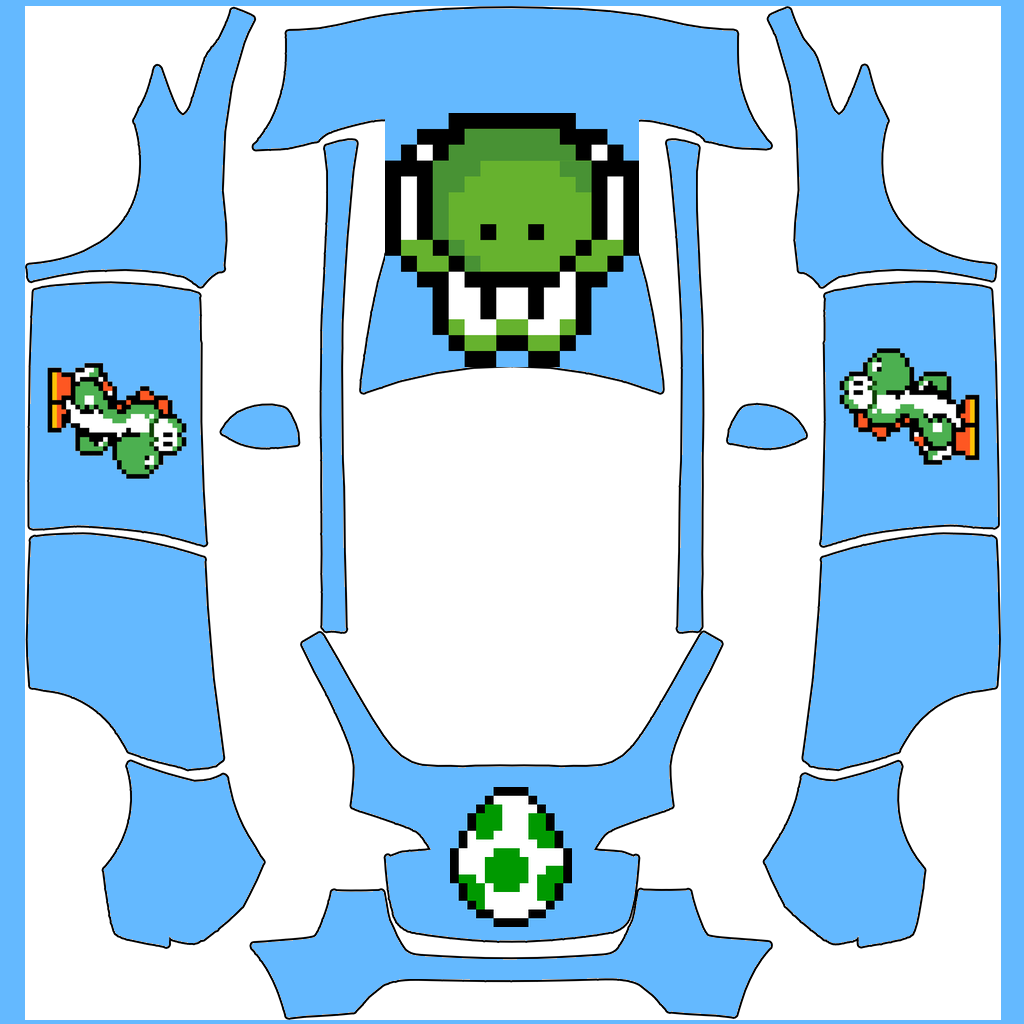
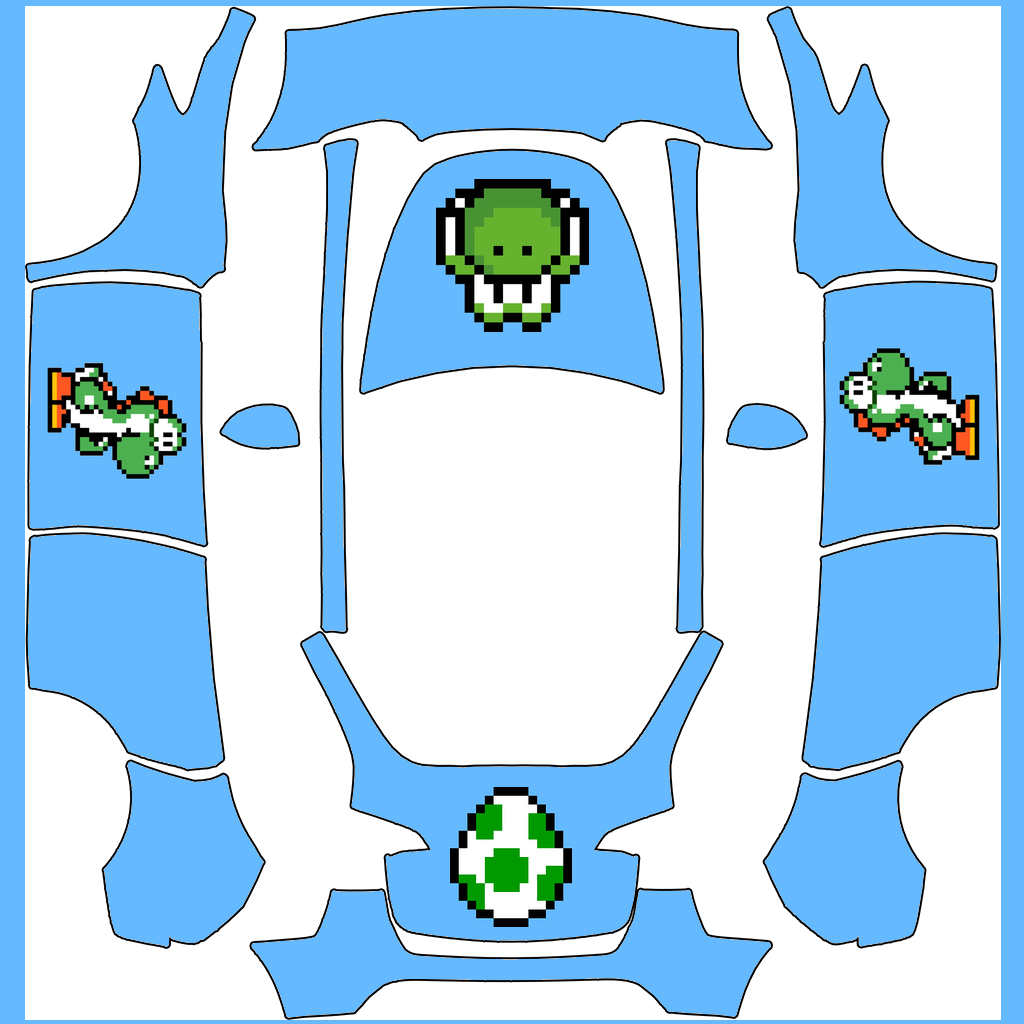
Reduce frunk face size and adjust position
Scaled frunk face down from 3.0 to 1.8 (40% reduction total) for better
proportions. Moved face down 15px (y=205-305) for improved positioning
within frunk panel.

Changed region(s): [[0.375, 0.0938, 0.625, 0.375]]

diff --git a/place_yoshi.py b/place_yoshi.py
@@ -25,7 +25,7 @@ FRUNK_FACE     = "raw/sky_yoshi_face_180.png"  # upside-down
 LEFT_DOOR  = dict(x0=30,  y0=284, x1=205, y1=544)
 RIGHT_DOOR = dict(x0=821, y0=283, x1=997, y1=544)
 TRUNK      = dict(x0=352, y0=775, x1=671, y1=940, scale=1.0)  # 1x scale, moved up
-FRUNK      = dict(x0=409, y0=190, x1=615, y1=290, scale=3.0)  # fill most of panel
+FRUNK      = dict(x0=409, y0=205, x1=615, y1=305, scale=1.8)  # moved down 15px
 
 # Scale Yoshi to this fraction of the door's smaller dimension
 YOSHI_SCALE = 0.85
